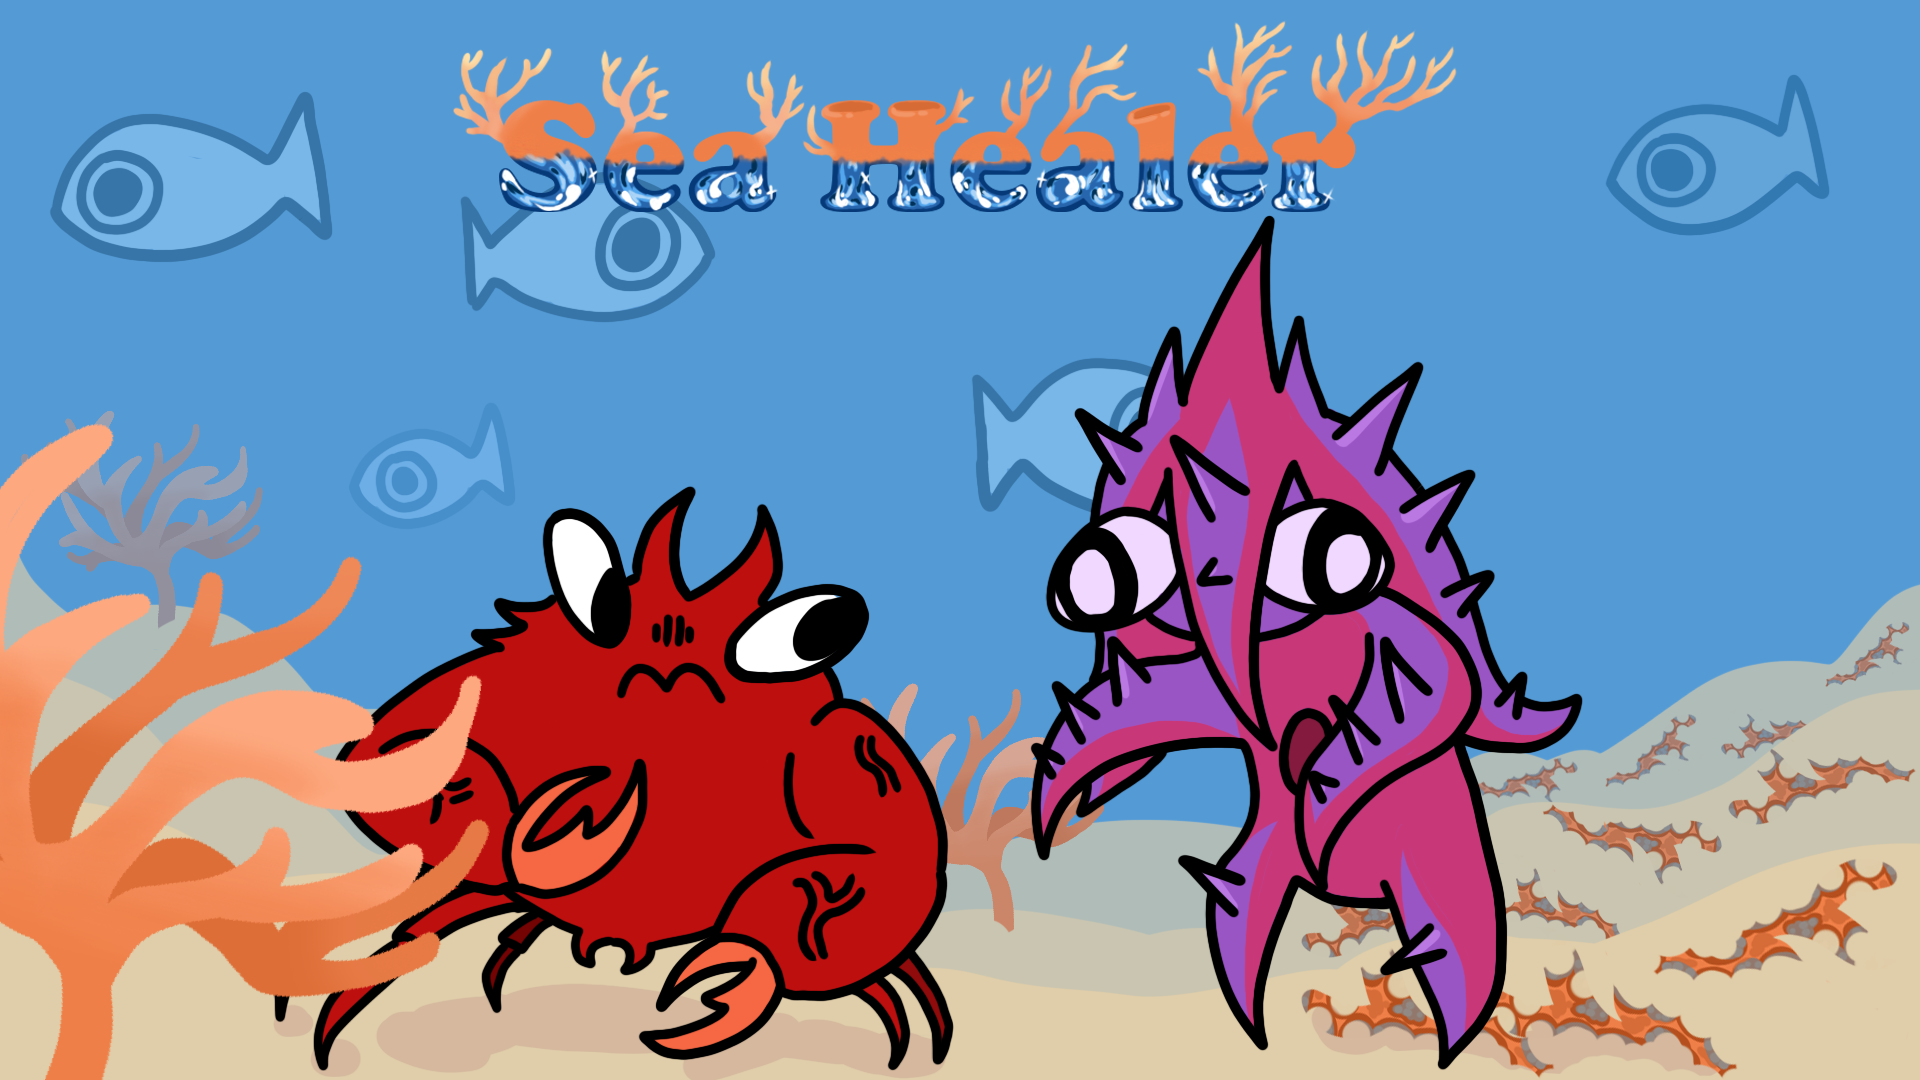
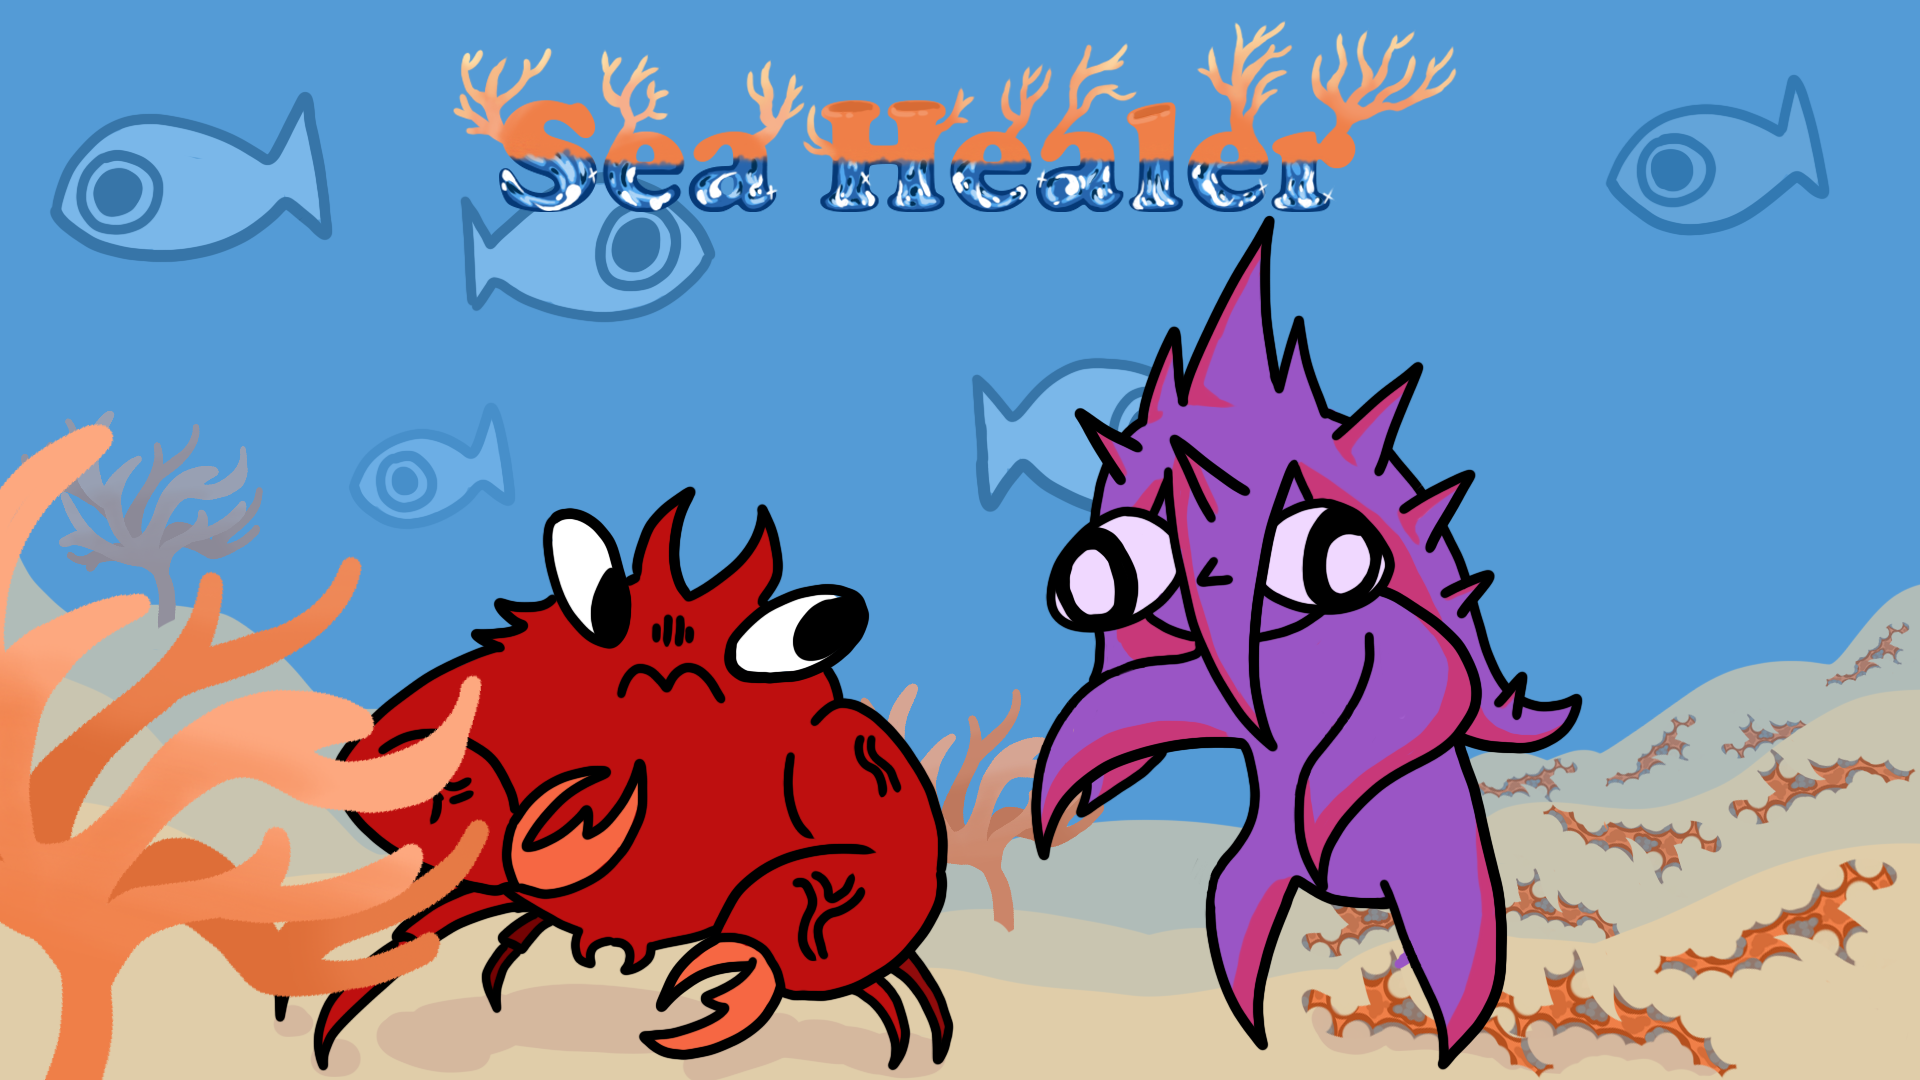
v_2

Changed region(s): [[0.5625, 0.2444, 0.7812, 0.9778], [0.5312, 0.5806, 0.5938, 0.7333], [0.625, 0.8861, 0.6562, 0.9472]]

diff --git a/style.css b/style.css
@@ -123,7 +123,7 @@ nav {
   color: #ffffff;
 }
 .section-dark .section-sub {
-  color: rgba(224, 205, 169, 0.5);
+  color: var(--céruléen);
 }
 
 .section-title {
@@ -463,10 +463,8 @@ footer.simple {
   padding: 24px 48px;
 }
 
-.f-logo {
-  font-family: "Cooper Black", Georgia, serif;
-  font-size: 22px;
-  color: #ffffff;
+.f-logo img {
+  width: 70px;
 }
 
 .footer-brand p {

diff --git a/index.html b/index.html
@@ -63,7 +63,7 @@
       <h3>Causes de l'invasion</h3>
       <div class="subh">Une origine humaine</div>
       <p>La surpêche élimine ses prédateurs naturels. Le ruissellement agricole nourrit ses larves. Le réchauffement climatique accélère sa reproduction et sa dispersion.</p>
-      <a href="https://www.science-et-vie.com/wp-content/uploads/scienceetvie/2022/04/alerte-etoile-mer-geante-1-516x410.jpg"><button class="btn">Voir la carte</button></a>
+      <a href="https://postimg.cc/QVxwNYQL"><button class="btn">Voir la carte</button></a>
     </div>
   </div>
 </div>
@@ -119,7 +119,7 @@
 <!-- FOOTER -->
 <footer>
   <div class="footer-brand">
-    <div class="f-logo">S₂O</div>
+    <div class="f-logo"><img src="images/logo.png" alt=""></div>
   </div>
   <div class="footer-col">
     <h5>Pages</h5>

diff --git a/news.html b/news.html
@@ -42,7 +42,7 @@
       <p>Ces proliférations sont principalement causées par l'activité humaine : surpêche des prédateurs naturels, ruissellement agricole nourrissant les larves, et réchauffement climatique accélérant leur reproduction.</p>
 
       <h3>Notre réponse</h3>
-      <p>S₂O déploie une stratégie multicanale incluant un <strong>site web</strong>, une présence active sur les réseaux sociaux, des <strong>affiches de sensibilisation</strong>, un <strong>jeu vidéo pédagogique</strong> (PVZ Maritime) et un <strong>film 3D</strong> présentant l'univers sous-marin menacé.</p>
+      <p>S₂O déploie une stratégie multicanale incluant un <strong>site web</strong>, une présence active sur les réseaux sociaux, des <strong>affiches de sensibilisation</strong>, un <strong>jeu vidéo pédagogique</strong> (Sea Healer) et un <strong>diorama 3D</strong> présentant l'univers sous-marin menacé.</p>
 
       <h3>Contact</h3>
       <div class="cp-contact">
@@ -93,7 +93,7 @@
   </div>
 
   <footer class="simple">
-    <div class="f-logo">S₂O</div>
+    <div class="f-logo"><img src="images/logo.png" alt=""></div>
   </footer>
 
   <script src="main.js"></script>

diff --git a/promotion.html b/promotion.html
@@ -152,7 +152,7 @@
     </div>
 
     <footer class="simple">
-      <div class="f-logo">S₂O</div>
+      <div class="f-logo"><img src="images/logo.png" alt=""></div>
     </footer>
 
     <script src="https://cdn.jsdelivr.net/npm/swiper@12/swiper-bundle.min.js"></script>

diff --git a/quiz.html b/quiz.html
@@ -63,7 +63,7 @@
   </div>
 
   <footer class="simple" style="margin-top:64px">
-    <div class="f-logo">S₂O</div>
+    <div class="f-logo"><img src="images/logo.png" alt=""></div>
   </footer>
 
   <script src="main.js"></script>